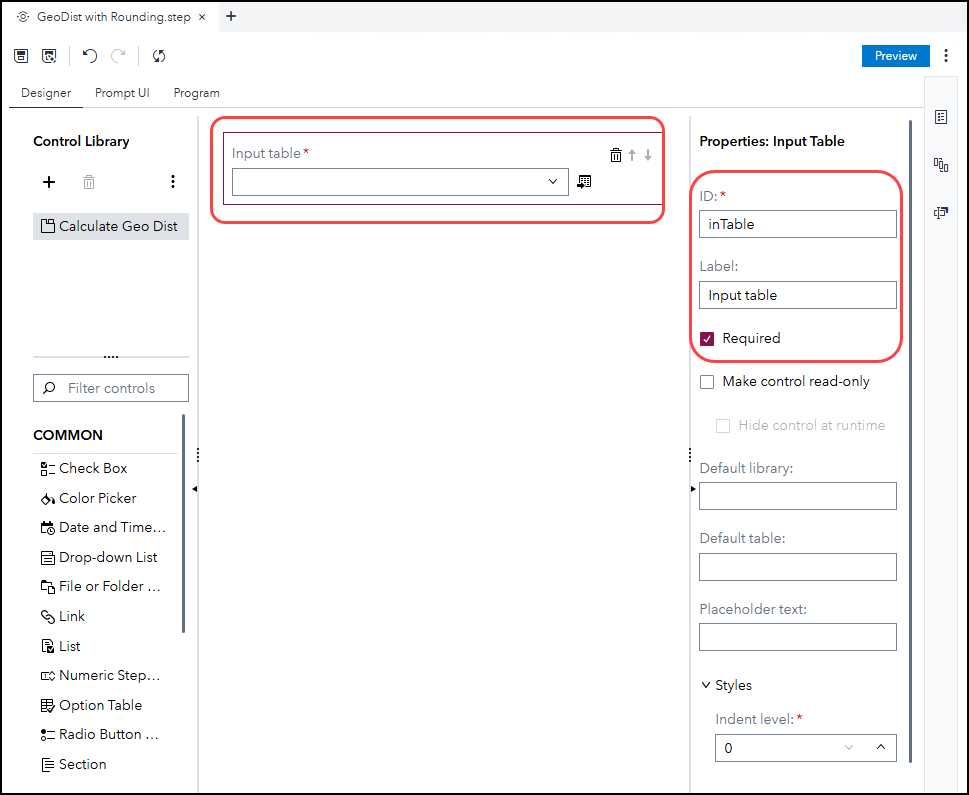
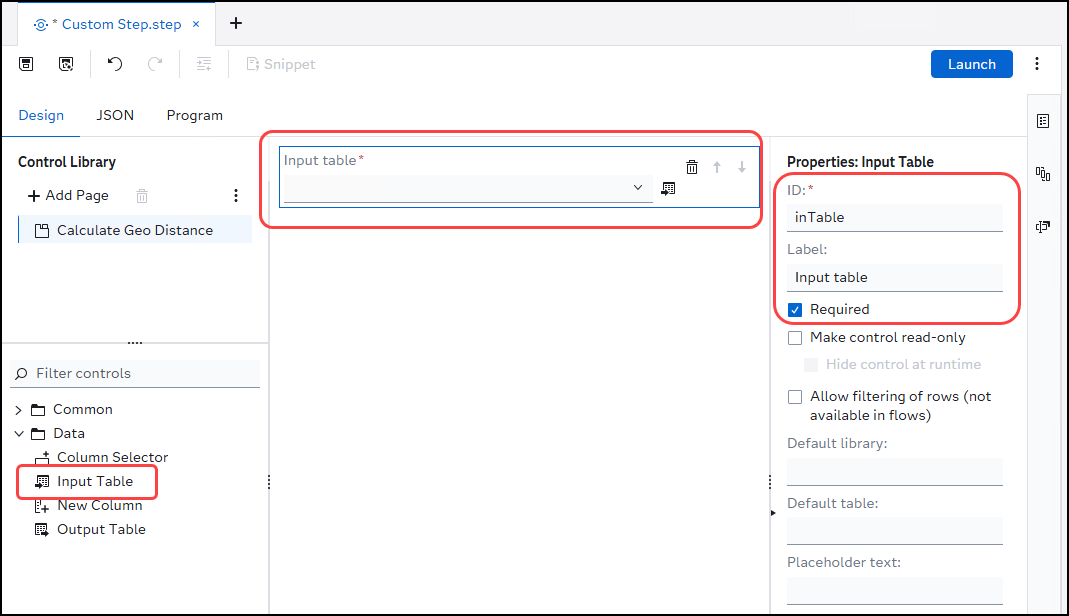
updated Page1

Changed region(s): [[0.0, 0.0, 1.0, 1.0], [0.031, 0.3701, 0.2167, 0.401]]

diff --git a/Create_Custom_Step.md b/Create_Custom_Step.md
@@ -1,7 +1,7 @@
-# Create a Custom Step
+# Create Custom Steps with SAS Studio
 * [Exercise Description](#exercise-description)
 * [Log in to SAS Viya](#log-in-to-sas-viya)
-* [Create a Custom Step](#create-a-custom-step-1)
+* [Create a Custom Step](#create-a-custom-step)
   * [*Assignment*: Complete Page 1 UI](#assignment-complete-page-1-ui)
   * [Set Port Details](#set-port-details)
   * [*Assignment*: Build Page 2 UI](#assignment-build-page-2-ui)
@@ -10,18 +10,18 @@
 * [Open and Test the Custom Step in Stand-Alone Mode](#open-and-test-the-custom-step-in-stand-alone-mode)
   * [Assignment: Test the Custom Step](#assignment-test-the-custom-step)
 * [Use the Custom Step in a SAS Studio Flow](#use-the-custom-step-in-a-sas-studio-flow)
+* [Exercise Completed](#exercise-completed)
 
 <br>
 
 ## Exercise Description
-In this exercise you create a custom step that calculates the geo-distance between two latitude and longitude locations in either kilometers or miles and provide the option to round the result.  After the custom step is built you test it in stand-alone mode and then use it in a SAS Studio Flow.
+In this hands-on exercise you create a custom step that calculates the geo-distance between two latitude and longitude locations in either kilometers or miles and provide the option to round the result.  After the custom step is built, you test it in stand-alone mode and then use it in a SAS Studio Flow.
 
 <br>
 <br>
 
 ## Log in to SAS Viya
-
-Open a new window in the *Google Chrome* browser and select the **SAS Landing** bookmark.
+Open a new window in the *Google Chrome* browser and select the **SASLanding** bookmark.
 
 * ID: **student**
 * Password: **Metadata0**
@@ -34,7 +34,7 @@ Select **No** when prompted about accepting *Admin* privileges.
 1. Select ![Viya Menu Selector](images/HamburgerMenu.png) **&#10132; Develop Code and Flows** to open *SAS Studio*.
 1. Select ![Steps Pane](images/Steps.png) to view the **Steps** pane.
 1. Select ![New](images/New.png) &#10132; **Custom step quick start** to create a new custom step.
-1. On the **Properties** for the *Page* on the *Designer* tab, enter the following:
+1. On the **Properties** for the *Page* on the *Design* tab, enter the following:
    - ID: **GeoDist**
    - Label: **Calculate Geo Distance**
 
@@ -48,16 +48,22 @@ Select **No** when prompted about accepting *Admin* privileges.
 
     > &#8252; The **ID** names for the controls are used in the code for the custom step, so ensure you enter them correctly; otherwise, you will either need to edit the code or the control ID.
 
-1. Select ![Save](images/Save.png) to save the custom step.
-1. Navigate to **Folder Shortcuts &#10132; Shortcut to My Folder &#10132; Workshop**.
-1. Enter **GeoDist with Rounding** for the *name* and click **Save**.
-
    ![Custom Step Input Table](images/CSInputTable.png)
 
+1. Select ![Save](images/Save.png) to save the custom step.
+1. Navigate to **SAS Content &#10132; Public**.
+1. Enter **GeoDistance with Rounding** for the *name* and click **Save**.
+1. Select the **Custom Steps** tab and confirm the saved step is listed there.
+
+    ![](images/CSSaveStep.png)
+
+<br>
 <br>
 
 ### *Assignment*: Complete Page 1 UI
 Add a **Radio Button Group** *COMMON* control to the canvas.  Enter the properties as depicted below.
+
+   > &#9755; Click ![Radio Button Add Item](images/CSAddItem.png) to add an item to the radio button list.
 
 ![Custom Step Distance Type Radio Button](images/CSdisType.png)
 
@@ -66,6 +72,10 @@ Add a **Radio Button Group** *COMMON* control to the canvas.  Enter the properti
 Add a **Section** *COMMON* control to the canvas.  Enter the properties as depicted below.
 
 ![Custom Step Section Control](images/CSSection.png)
+
+<br>
+
+**Save** the changes to the custom step.
 
 <br>
 
@@ -85,9 +95,13 @@ Add a **Column Selector** *DATA* control to the canvas in the *Lat/Long Columns*
 
 <br>
 
+**Save** the changes to the custom step.
+
+<br>
+
 Add a **New Column** *DATA* control to the main canvas.  Enter the properties as depicted below.
 
-![](images/NewColumnControl.png)
+![New Column Control](images/NewColumnControl.png)
 
   > &#9998; Setting visibility to *false* means that the user will not be able to view this control.  The column name will be controlled by the code, but is needed for the output options in the port details you will set later in this exercise.
 
@@ -99,7 +113,7 @@ Add an **Output Table** *DATA* control to the main canvas.  Enter the properties
 
 <br>
 
-**Save** the Custom Step.  Select **Preview** to preview the design of Page 1 - *Calculate Geo Distance*.
+**Save** the Custom Step.  Click **Launch** to preview the design of Page 1 - *Calculate Geo Distance*.
 
 ![Custom Step Preview](images/CSPreview.png)
 
@@ -111,18 +125,18 @@ Add an **Output Table** *DATA* control to the main canvas.  Enter the properties
 <br>
 
 ### Set Port Details
-1. Select ![](images/PortDetails.png) to enter the port details for the custom step.
+1. Select ![Port Details](images/PortDetails.png) to enter the port details for the custom step.
 
     ![](images/PortDetailsTab.png)
 
 1. Select ![](images/PencilIcon.png) for the **outTable** *Output Tables* port to edit its details.
 1. Select **All columns &#10132; Input table (inTable)** to add all the columns from that input table to the output.
 
-    ![](images/AddInputColumnstoOutput.png)
+    ![Add Input Columns](images/AddInputColumnstoOutput.png)
 
 1. Select **New column &#10132; Distance between the locations (newColumn)** to add that new column to the output.
 
-    ![](images/OutputTableColumns.png)
+    ![Add Output Columns](images/OutputTableColumns.png)
 
 1. Select **OK** to save the changes to output table metadata.
 1. **Save** the changes to the custom step.
@@ -151,7 +165,7 @@ Add a **Text or Numeric Field** *COMMON* control to the canvas.  Enter the prope
 
 <br>
 
-**Save** and **Preview** Page 2 - *Options* of the custom step.  Confirm that the dependent **decimalPlaces** selection is only displayed if the **round** check box is checked.
+**Save** the custom step.  Select **Launch** to preview Page 2 - *Options* of the custom step.  Confirm that the dependent **decimalPlaces** selection is only displayed if the **round** check box is checked.
 
 **Round Option Unchecked**
 
@@ -169,7 +183,7 @@ Add a **Text or Numeric Field** *COMMON* control to the canvas.  Enter the prope
 
 ### *Assignment*: Build Page 3 UI
 Add an **About** page (tab).  On the *About* tab, use the **Text** control in the *COMMON* section to add the following text:
-**This custom step was built for a workshop.  It calculates the distance between two locations.**
+**This custom step calculates the distance between two locations.**
 
 **Save** the custom step.
 
@@ -217,11 +231,9 @@ data &outTable ;
 run;
 ```
 
-
-  > &#8252; The **ID** names for the controls are used in the code for the custom step, so ensure you entered them correctly; otherwise, you will either need to edit the code or the control ID in the *Designer*.
+  > &#8252; The **ID** names for the controls are used in the code for the custom step, so ensure you entered them correctly; otherwise, you will either need to edit the code or the control ID in the properties on the *Design* tab.
 
 3. **Save** and close the custom step.
-
 
 <br>
 <br>
@@ -234,7 +246,7 @@ run;
 1. Select **Open in a tab** to view the custom step in stand-alone mode.
 
 ### Assignment: Test the Custom Step
-Perform various tests using **MAPS.AFRICA** as the input table.  Select columns **X** and **Y** as *Location 1* and columns **LAT** and **LONG** as *Location 2*.  Select **WORK.TEST** as the output table.  View the resulting table in the **WORK** library.Play around with different options.
+Perform various tests using **MAPS.AFRICA** as the input table.  Select columns **X** and **Y** as *Location 1* and columns **LAT** and **LONG** as *Location 2*.  Select **WORK.TEST** as the output table.  View the resulting table in the **WORK** library.  Play around with different options on the **Options** tab of the custom step.
 
 ![](images/CSTESTResults.png)
 
@@ -242,14 +254,15 @@ Perform various tests using **MAPS.AFRICA** as the input table.  Select columns 
 <br>
 
 ## Use the Custom Step in a SAS Studio Flow
+1. Upload...
 
-Create the flow pictured below in SAS Studio to use the custom step you created to calculate the distance between two locations.  The input file **Location_Data.xls** is located at: **Folder Shortcuts &#10132; Shortcut to My Folder &#10132; Workshop** &#10132; **data**. Select the latitude and longitude fields as depicted in the screenshot. Calculate the distance in **Miles** and **round to 2 decimal places**.
 
-  > &#9755; The custom step is available for selection on the **Shared** tab of the *Steps* pane.
+<br>
 
-![Custom Step in Flow](images/CSFlow.png)
+## Exercise Completed
 
-![Custom Step in Flow Options](images/CSFlowOptions.png)
+You have completed the exercise on **Create Custom Steps with SAS Studio**.
 
-![Custom Step Results](images/CSResults.png)
+**THANK YOU FOR ATTENDING THIS SESSION!**
 
+**PLEASE COMPLETE THE EVALUATION IN THE SAS INNOVATE APP!**
